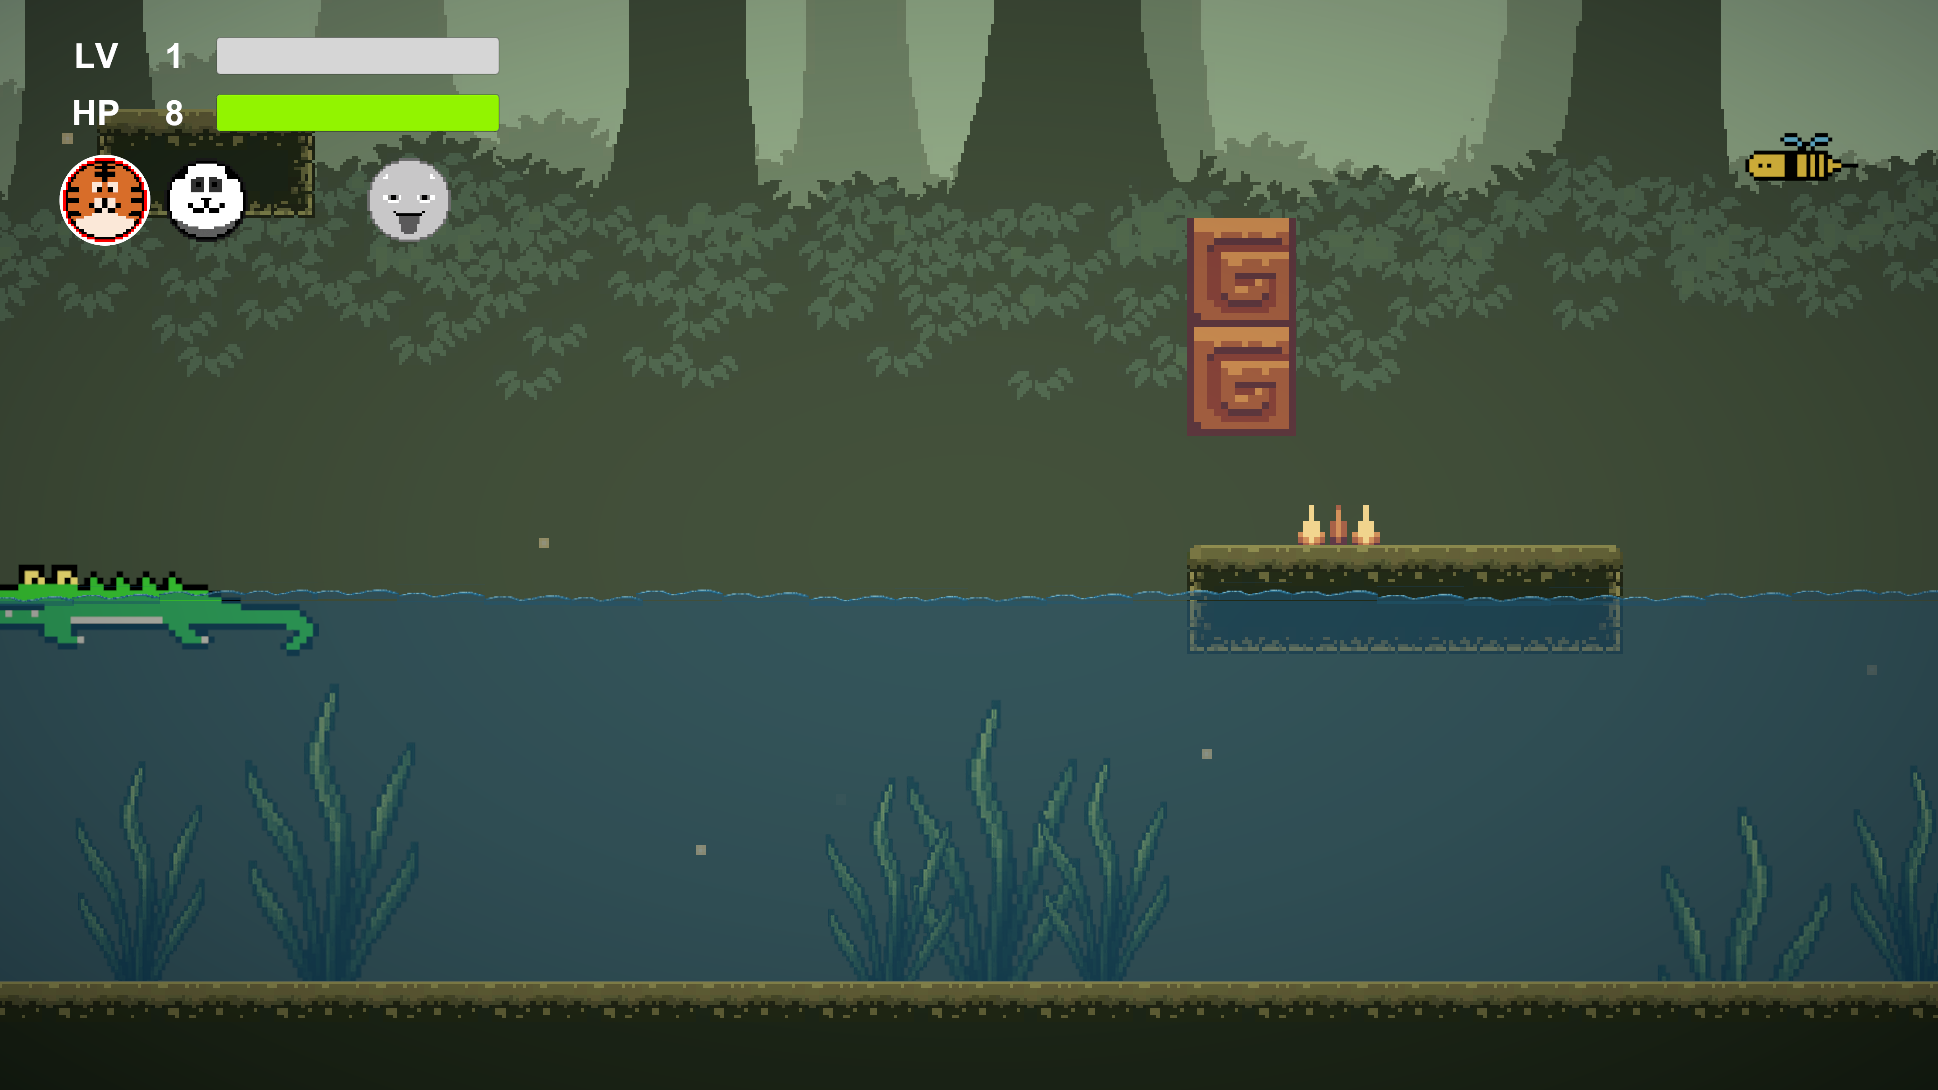
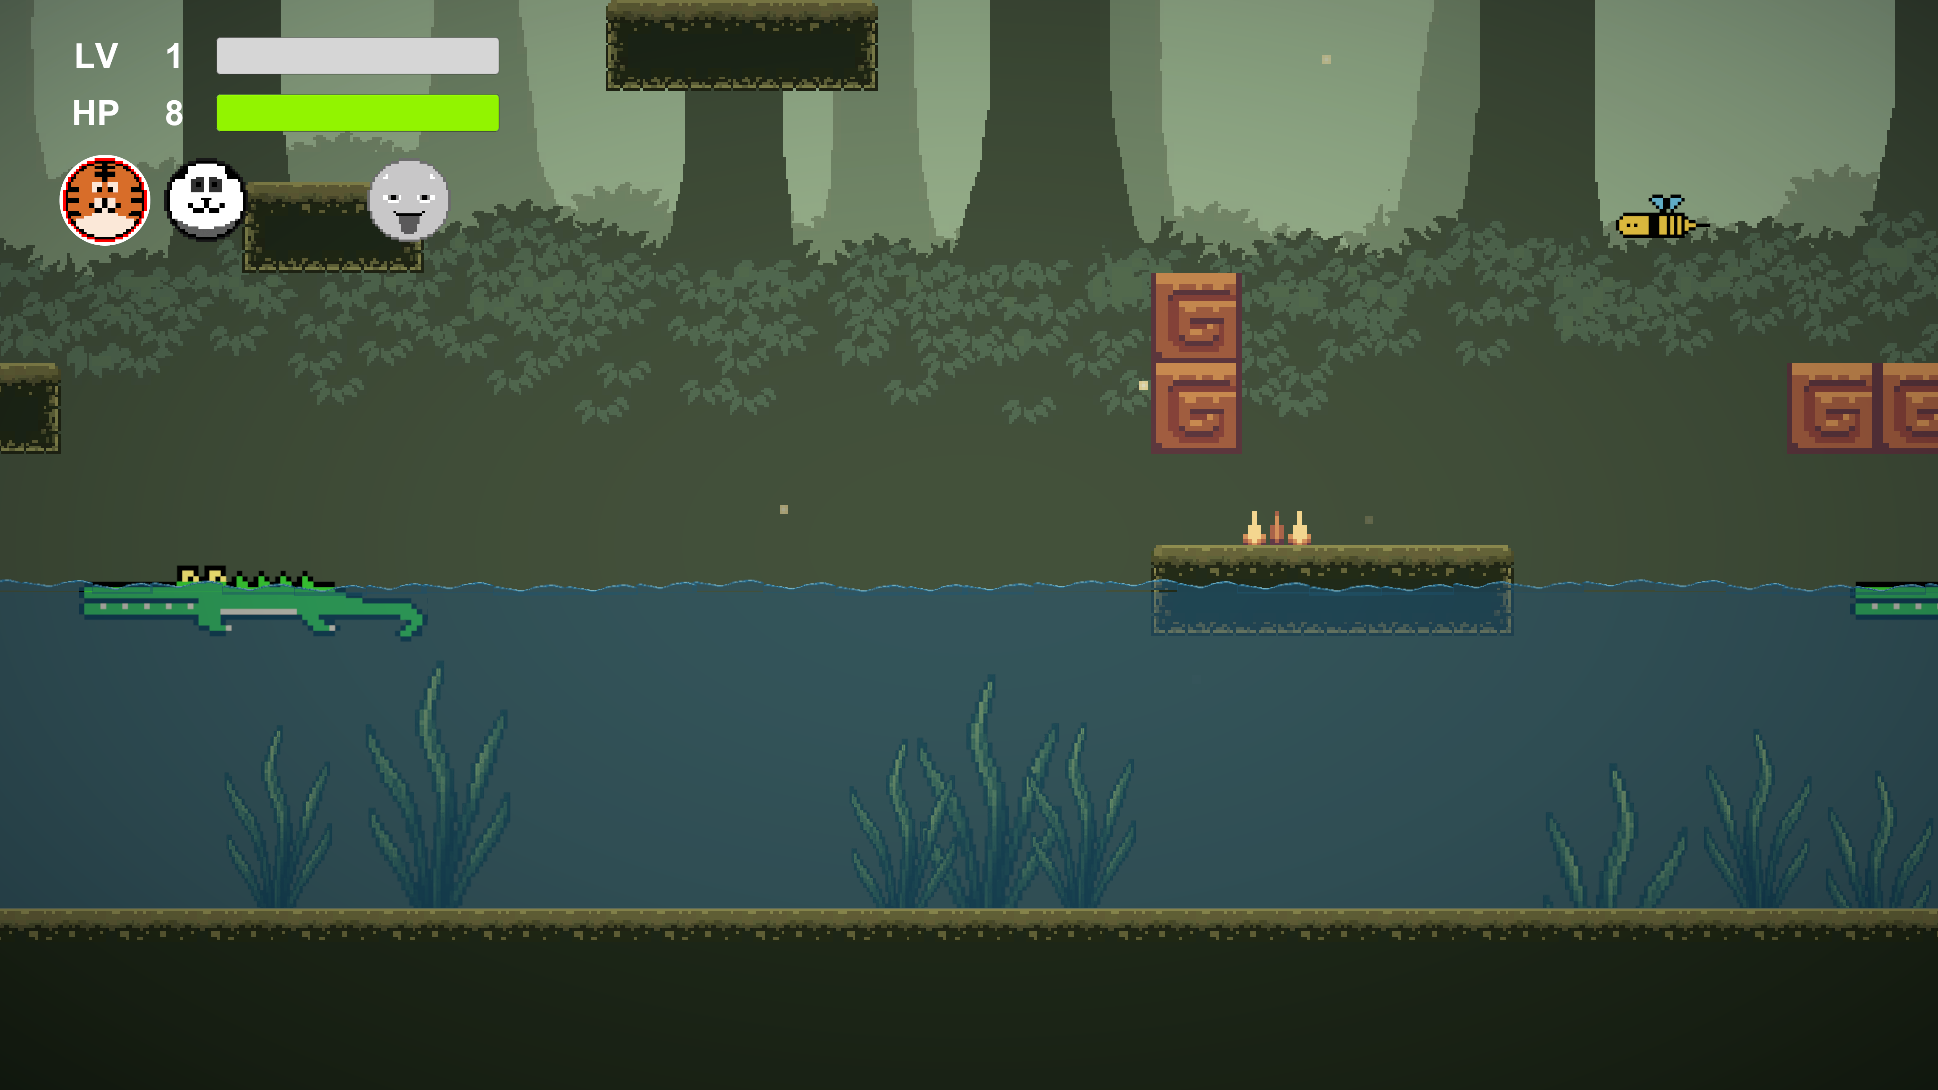
tuti_2 のカメラ ortho を 6 にして tuti_1 と同じ見え方にする #659
- CMCamera の OrthographicSize を 5 から 6 に(ユーザー判断。tuti_1 の見やすさに合わせる)
- Issue659TutiAtmosphereSetup の ortho 表を 6 にして粒子の発生範囲を置き直し、適用後スクリーンショットを撮り直す

diff --git a/Assets/Scripts/Editor/Issue659TutiAtmosphereSetup.cs b/Assets/Scripts/Editor/Issue659TutiAtmosphereSetup.cs
@@ -48,11 +48,11 @@ public static class Issue659TutiAtmosphereSetup
         "Ohirunebeya_tuti_6_boss_3",
     };
 
-    /** 各シーンのカメラ ortho(#660 まで変えない)。粒子の発生範囲の計算に使う */
+    /** 各シーンのカメラ ortho(シーンの CMCamera と合わせる)。粒子の発生範囲の計算に使う */
     private static readonly Dictionary<string, float> OrthoSizes = new Dictionary<string, float>
     {
         { "Ohirunebeya_tuti_1", 6f },
-        { "Ohirunebeya_tuti_2", 5f },
+        { "Ohirunebeya_tuti_2", 6f },  // 2026-09-07 に 5 から 6 へ(tuti_1 と同じ見え方にするため)
         { "Ohirunebeya_tuti_3", 7.5f },
         { "Ohirunebeya_tuti_4", 7.6f },
         { "Ohirunebeya_tuti_5", 5f },
